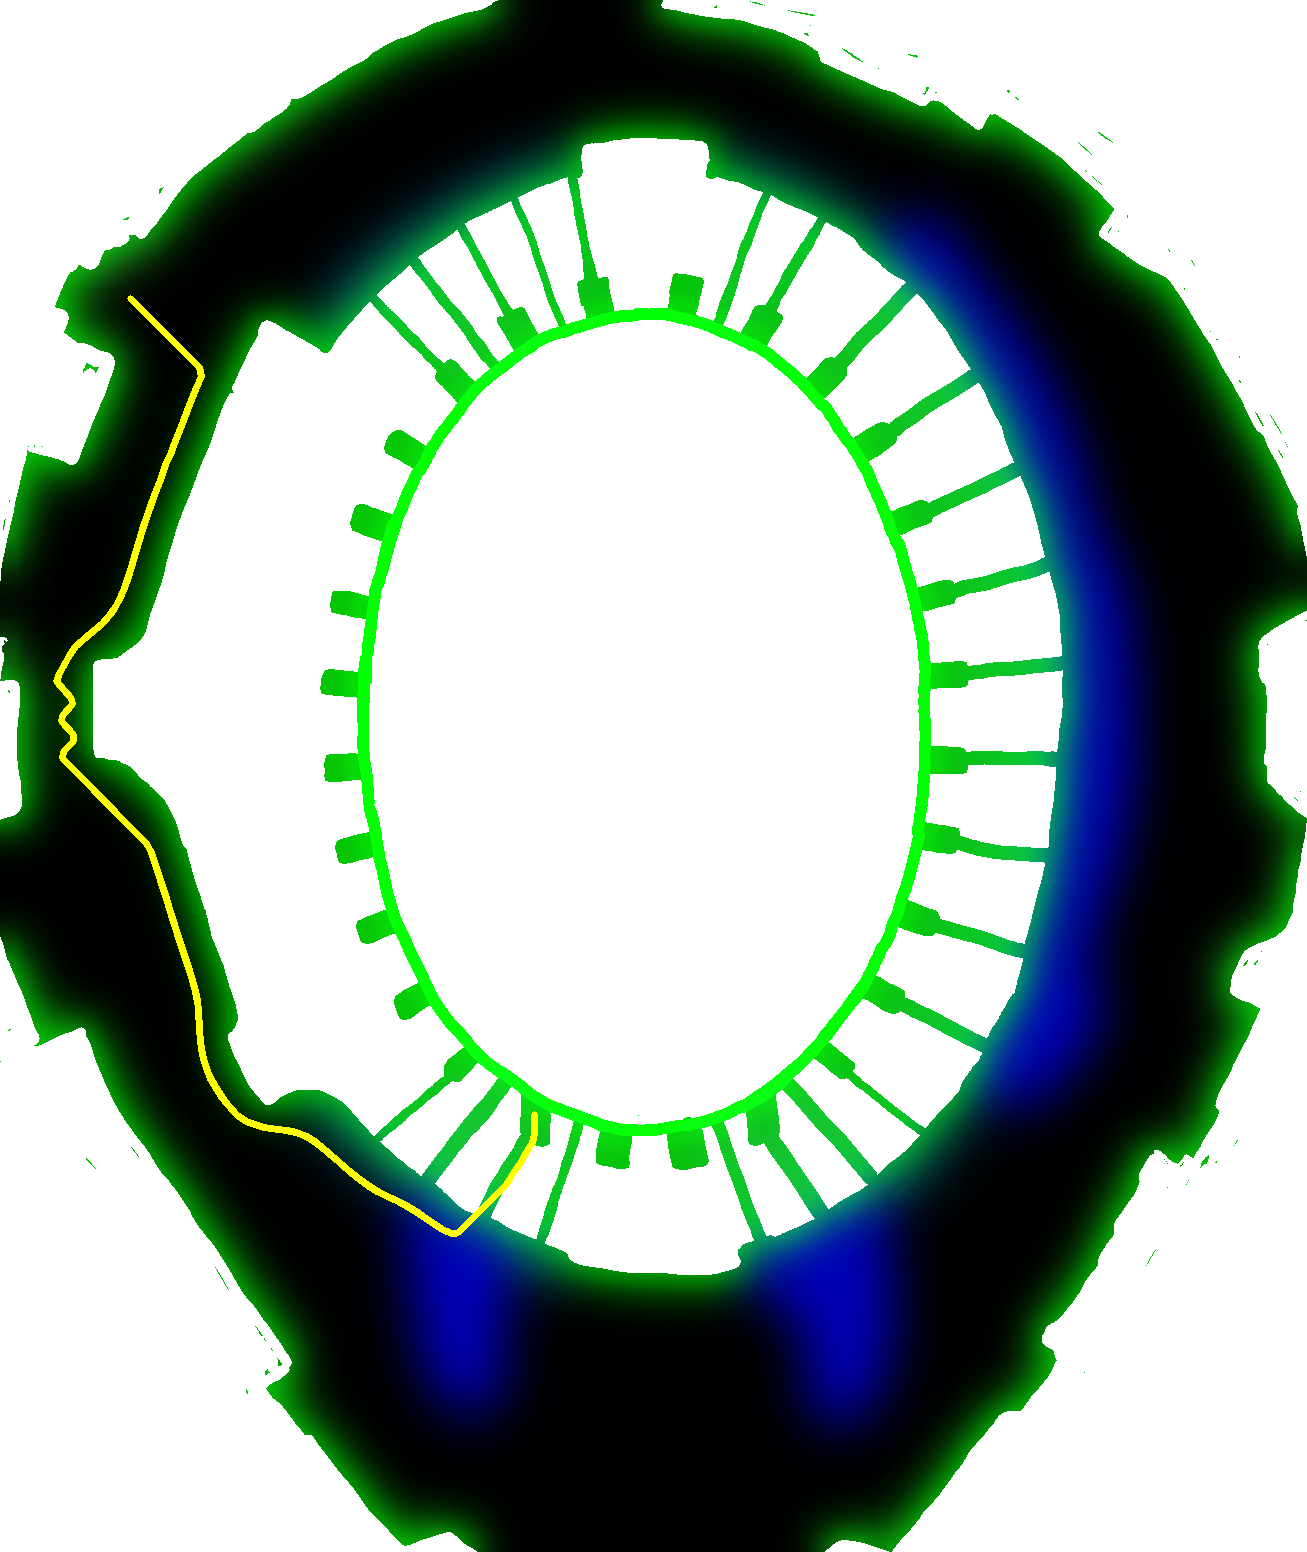
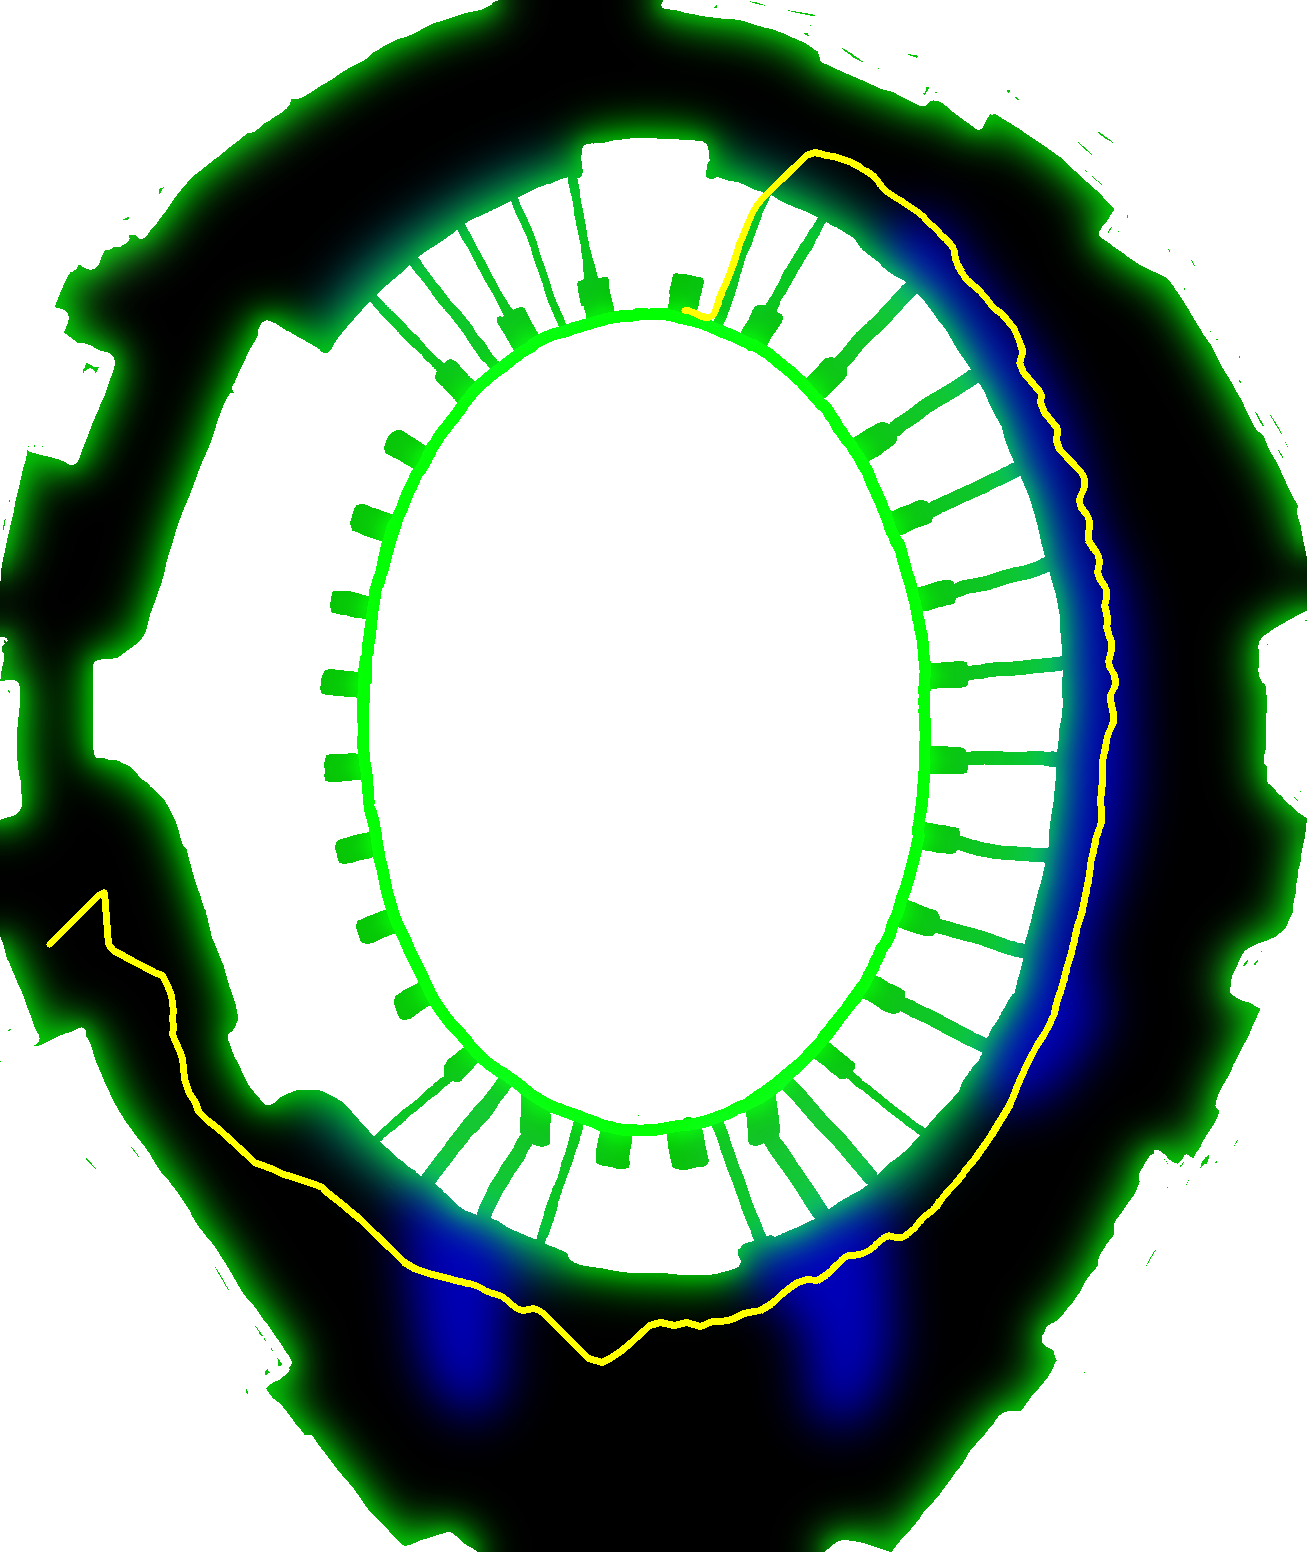
Refine post processing of path some more

diff --git a/path_planner/path_planner.py b/path_planner/path_planner.py
@@ -22,7 +22,7 @@ def color2cost(color, shift=6, scale=16):
     return scale * sig
 
 
-def colinearity(p):
+def collinearity(p):
     m = len(p)
     n = len(p[0])
     if m < n:
@@ -36,7 +36,7 @@ def colinearity(p):
     return abs(np.linalg.det(matrix))
 
 
-def colinearity_check(p1, p2, p3, epsilon=5):
+def collinearity_check(p1, p2, p3, epsilon=7):
     m = np.vstack((p1, p2, p3))
     if p1[2] <= p2[2] <= p3[2]:
         m[:, 2] = 1
@@ -163,7 +163,7 @@ class A_star(PathFinder):
             p.append(b.pos)
             n = b
 
-        det = colinearity(p)
+        det = collinearity(p)
         return det + self.h1(cur, target)
 
     def cost(self, p1, p2):
@@ -183,7 +183,7 @@ class A_star(PathFinder):
         for i in range(len(P) - 1):
             total_cost += self.cost(P[i], P[i+1])
 
-    def prune_path(self, path):
+    def prune_path(self, path, path_cost):
         length = len(path)
         print("Path is %d points long" % length)
         path = np.array(path).reshape((length, 3))
@@ -197,13 +197,13 @@ class A_star(PathFinder):
             path[:, 0] = scipy.ndimage.convolve(x, box)
             path[:, 1] = scipy.ndimage.convolve(y, box)
 
-        # prune colinear pts
+        # prune collinear pts
         i = 0
         while i < (pruned_path.shape[0] - 2):
             p1 = pruned_path[i]
             p2 = pruned_path[i+1]
             p3 = pruned_path[i+2]
-            if colinearity_check(p1, p2, p3):
+            if collinearity_check(p1, p2, p3):
                 pruned_path = np.delete(pruned_path, i + 1, axis=0)
             else:
                 i += 1
@@ -291,7 +291,7 @@ class A_star(PathFinder):
         path.append(self.branch[n][1].pos)
         path_cost.append(0)
 
-        pruned_path = self.prune_path(path[::-1])
+        pruned_path = self.prune_path(path[::-1], path_cost[::-1])
         if self.DEBUG:
             path_image = draw_path(self.image, pruned_path)
             path_image_name = self.image[:-4] + "Path.png"
@@ -301,20 +301,20 @@ class A_star(PathFinder):
 
 
 if __name__ == '__main__':
-    venue = "RoseBowl"
+    venue = "Test"
 
     map_image_name = "venues/" + venue + "/" + venue + ".png"
     a = A_star(map_image_name, True)
     # a.grid.find_endpoints(127, 255); exit(0)
 
-    # diffused = a.diffuse(12, (15, 15), 196)  # Test
-    diffused = a.diffuse(12, (25, 25), 196)  # Rose Bowl
+    diffused = a.diffuse(12, (15, 15), 196)  # Test
+    # diffused = a.diffuse(12, (25, 25), 196)  # Rose Bowl
     # diffused = a.diffuse(12, (15, 15), 196)  # Coachella
     cv2.imwrite(map_image_name[:-4] + "Diffused.png", diffused)
     a.grid.grid = diffused
 
-    # start = (19, 24); target = (211, 20)  # Test
-    start = (46, 950); target = (682, 310)  # RoseBowl
+    start = (19, 24); target = (211, 20)  # Test
+    # start = (46, 950); target = (682, 310)  # RoseBowl
     # start = (19, 24); target = (211, 20)  # Coachella
     path, cost = a.find_path(start, target)
     path_image = draw_path(map_image_name, path)

diff --git a/controllers/webots_controller/webots_controller.py b/controllers/webots_controller/webots_controller.py
@@ -1,0 +1,32 @@
+"""webots_controller controller."""
+
+# You may need to import some classes of the controller module. Ex:
+#  from controller import Robot, Motor, DistanceSensor
+from controller import Robot
+
+# create the Robot instance.
+robot = Robot()
+
+# get the time step of the current world.
+timestep = int(robot.getBasicTimeStep())
+
+# You should insert a getDevice-like function in order to get the
+# instance of a device of the robot. Something like:
+#  motor = robot.getMotor('motorname')
+#  ds = robot.getDistanceSensor('dsname')
+#  ds.enable(timestep)
+
+# Main loop:
+# - perform simulation steps until Webots is stopping the controller
+while robot.step(timestep) != -1:
+    # Read the sensors:
+    # Enter here functions to read sensor data, like:
+    #  val = ds.getValue()
+
+    # Process sensor data here.
+
+    # Enter here functions to send actuator commands, like:
+    #  motor.setPosition(10.0)
+    pass
+
+# Enter here exit cleanup code.
